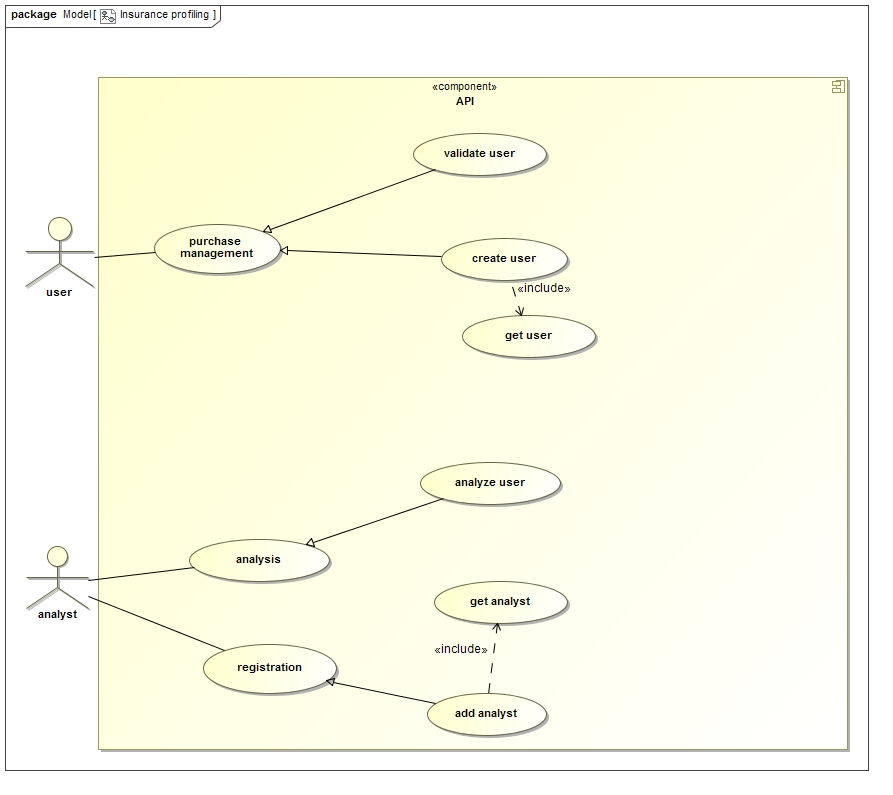
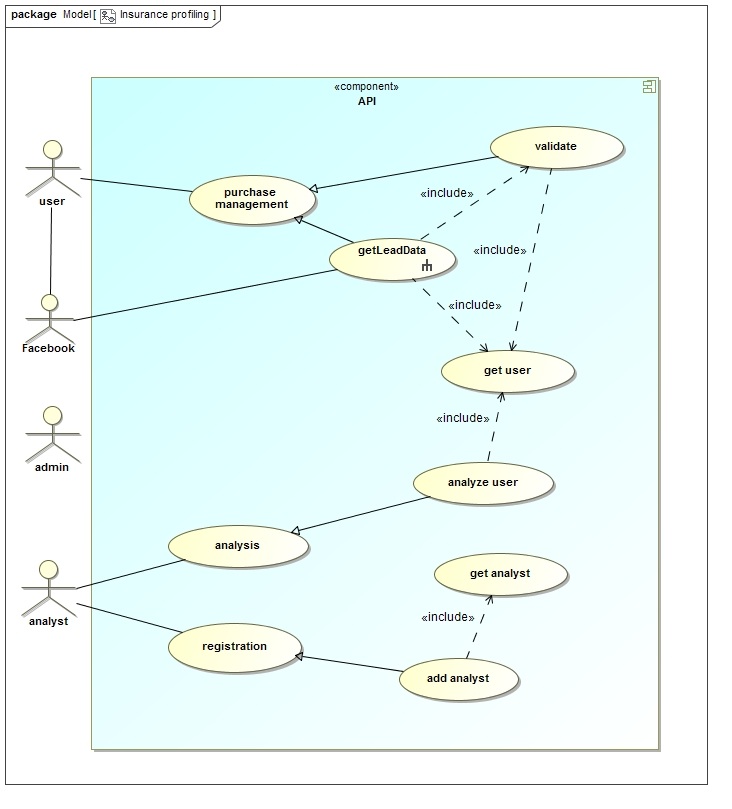
Added diagrams

diff --git a/Documentation/ArchitectureSpecification/architectureSpecification.tex b/Documentation/ArchitectureSpecification/architectureSpecification.tex
@@ -335,6 +335,12 @@ The primary focus of this project is to generate risk statistics based on social
 
 	\subsubsection{Architectural (structural) patterns}
 	In order to promote flexibility as well as testability, the layered architectural pattern will be used. This allows for future development to change tactics (business logic tactics) and allows for the decoupling of different functions. This is crucial in order for the system to remain within its architectural concern boundaries, which will rely heavily on a modular configurable system. This, in conjunction with the Model-View-Controller pattern will make for a understandable and testable system, with proper modularization. MVC includes the ability to generate new views for the web based front-end efficiently. 
+
+	\begin{figure}[H]
+		\includegraphics[width=\textwidth]{images/obj__Tech_stack.jpg}  \\
+		\caption{Use Case Diagram : Insurance Profiling}
+		\end{figure}
+
 	\subsubsection{Concepts and constraints for application components}
 
 	Application components will not be deployed at the first level of granularity. Any application components will be hosted within the architectural components.

diff --git a/Documentation/FunctionalSpecification/functionalSpecification.tex b/Documentation/FunctionalSpecification/functionalSpecification.tex
@@ -80,7 +80,6 @@
 	\cleardoublepage
 	\tableofcontents
 	\cleardoublepage
-\section{Version table}	
 	% Start of the revision history table
 	\begin{versionhistory}
   		\vhEntry{1.0}{27.05.2016}{CJvV,KH,QW}{Original Architectural document without Functional requirements}
@@ -93,7 +92,7 @@
 
 		\begin{figure}[H]
 		\includegraphics[width=\textwidth]{images/uc__Insurance_profiling.jpg}  \\
-		\caption{Use Case Diagram : Publications}
+		\caption{Use Case Diagram : Insurance Profiling}
 		\end{figure}
 
 		\begin{flushleft}
@@ -118,8 +117,8 @@
 		\subsubsection{Services Contracts}
 
 		\begin{figure}[H]
-		\includegraphics[width=\textwidth]{images/Incomplete.png}  \\
-		\caption{Use Case Diagram : Publications}
+		\includegraphics[width=\textwidth]{images/obj__createCustomer.jpg}  \\
+		\caption{Service Contract : addLeadData}
 		\end{figure}
 
 		\subsubsection{Required Functionality}
@@ -203,7 +202,7 @@
 
 \begin{figure}[H]
 \includegraphics[width=\textwidth]{images/class__Domain_Model.jpg}  \\
-\caption{Use Case Diagram : Publications}
+\caption{Domain Model}
 \end{figure}
 
 \subsection{Open Issues}
